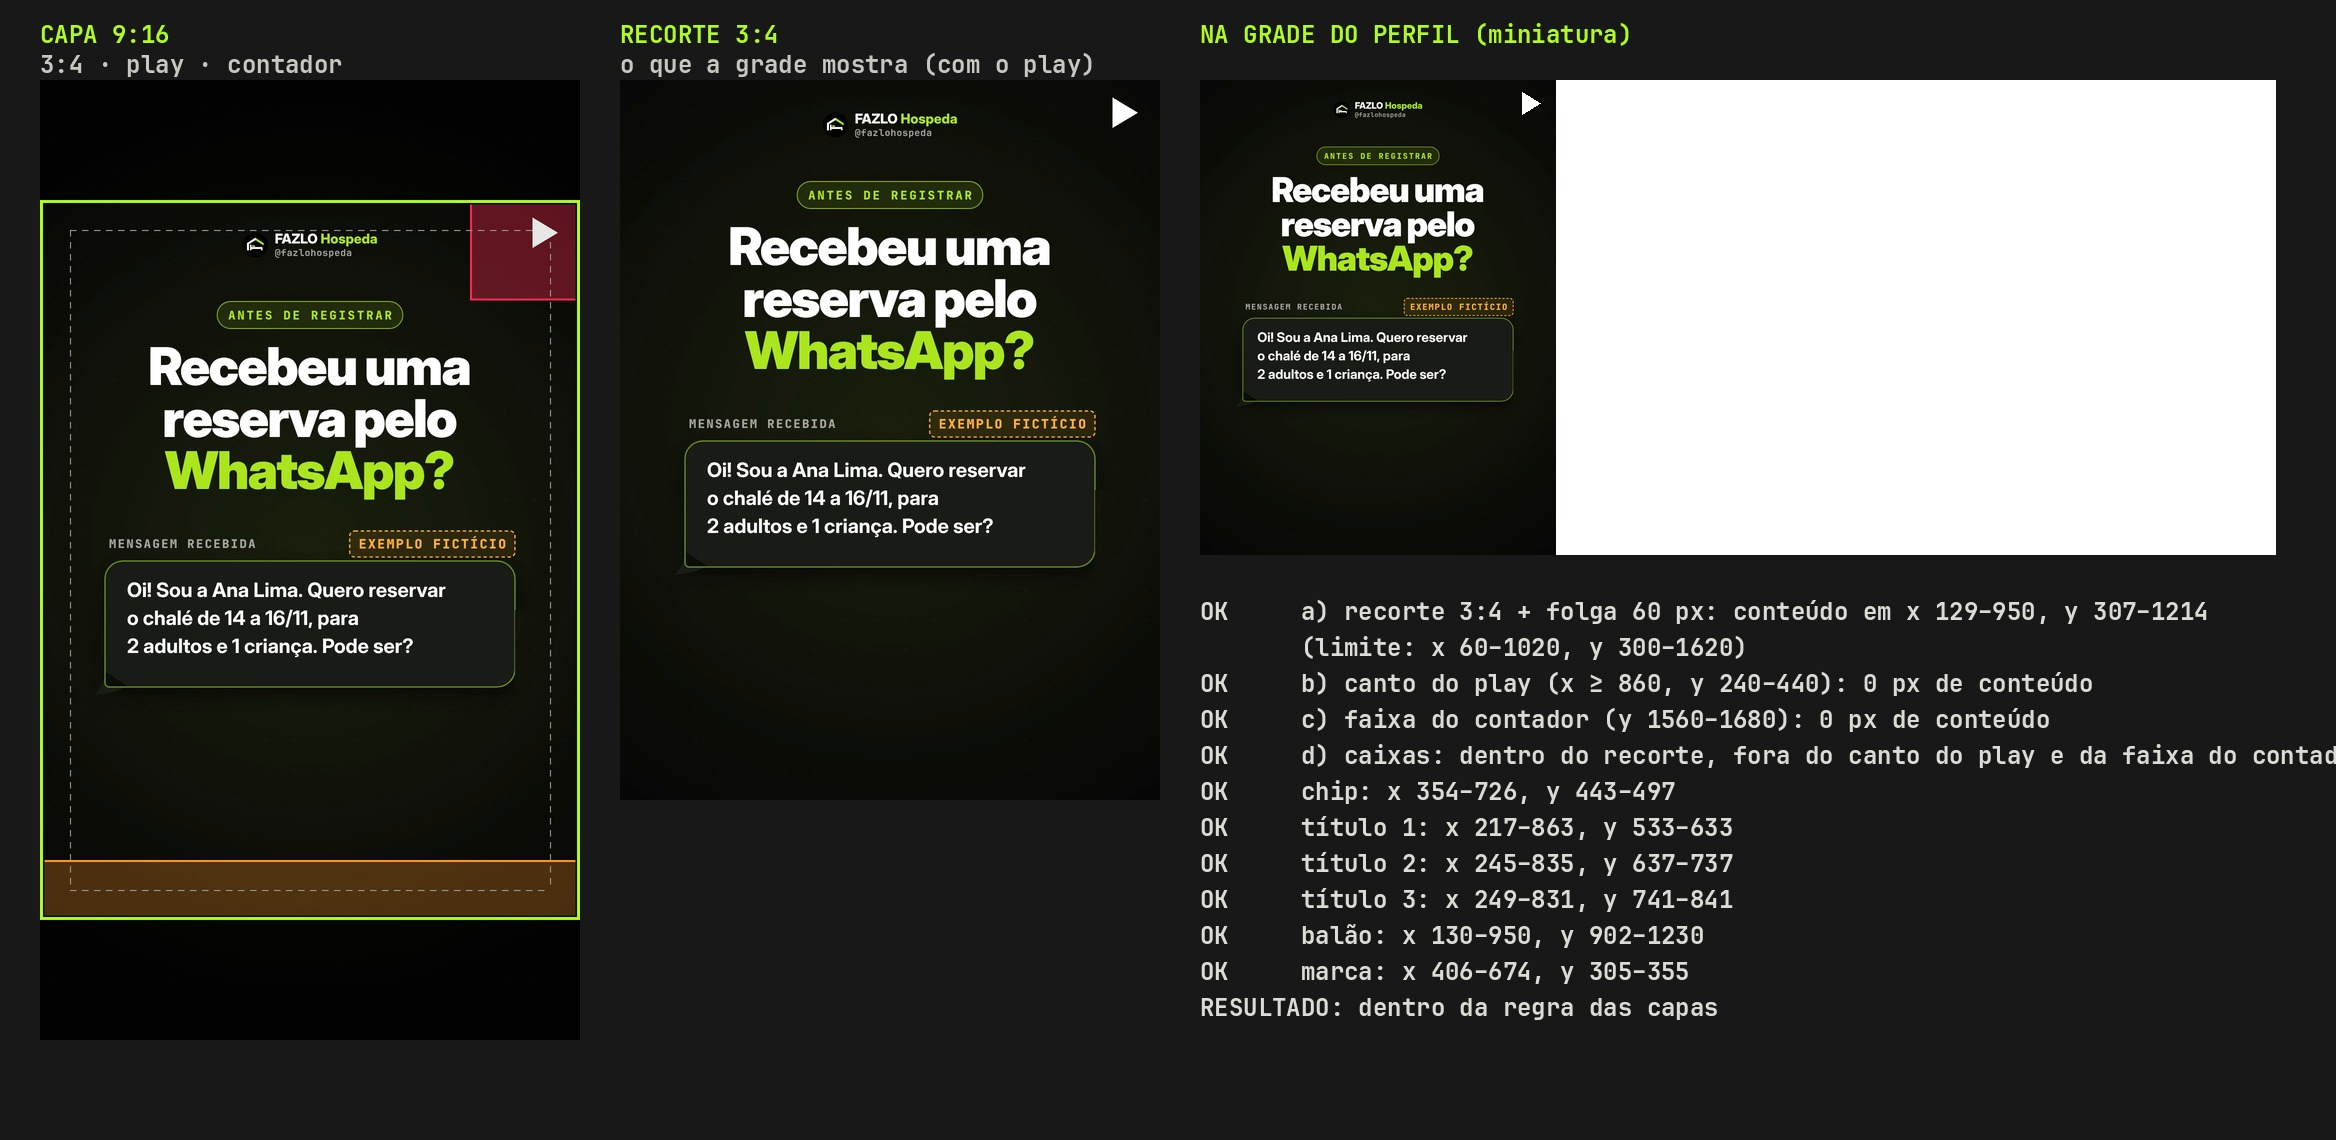
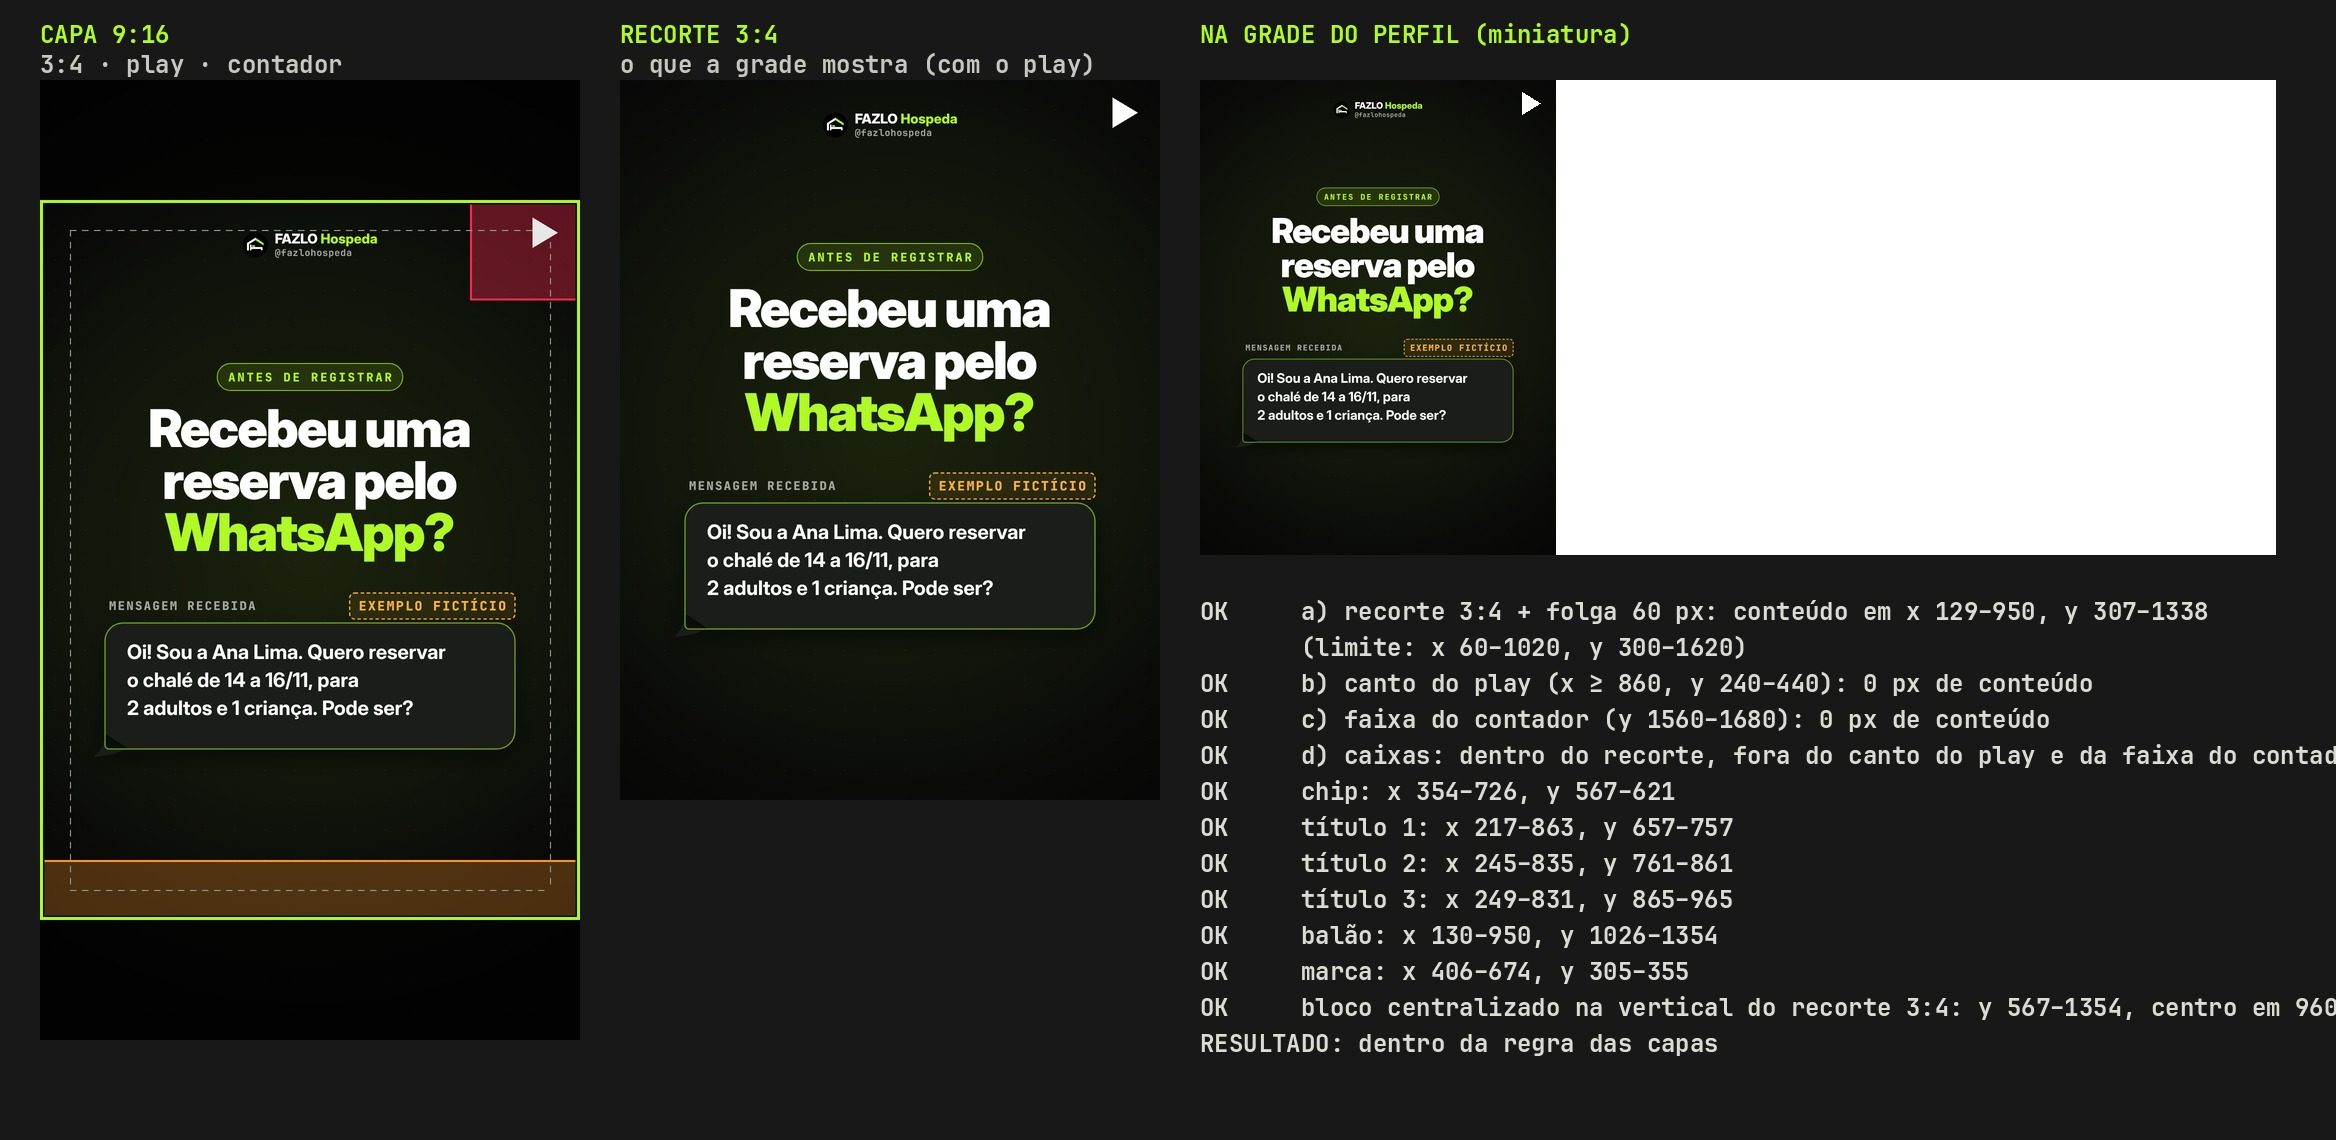
Capas da grade centralizadas (bloco em y = 960) para saldo-checkout, reserva-whatsapp, tudo-num-lugar e institucional
Capa à parte em cada Reel (o vídeo não muda): o mesmo quadro 0 com a logo no
lugar e o bloco principal deslocado para o centro do recorte 3:4, exportando
_bloco; capa nova do institucional para o Reel (a dor do roteiro, sem tela).
tools/capa_grade.cjs gera a capa; revisao_capa.py confere; previa_linha.py
aceita a pasta de uma capa avulsa; linha da grade em reels/grade/.

Claude-Session: https://claude.ai/code/session_0128vGSavxvNhZe87z6nCNi2

diff --git a/reels/institucional-hospeda/src/anim.js b/reels/institucional-hospeda/src/anim.js
@@ -558,6 +558,32 @@
     } else fimLogo(c, t);
     avisoPrevia(c);
   }
+  // ---------------------------------------------------------------- capa para a grade do Reel (à parte: o vídeo e a miniatura do WhatsApp não mudam)
+  // a dor do roteiro: o mesmo título do vídeo ("Caderno, papel / e um caixa que / não bate?", a chave em limão) e os três
+  // elementos da cena 1 (caderno, papel, caixa) no estado final; a logo pequena no alto; sem tela do sistema.
+  // O bloco (título + elementos) fica centralizado na vertical do recorte 3:4 (y = 960).
+  function desenhaCapa(c, dy) {
+    c.setTransform(1, 0, 0, 1, 0, 0); c.globalAlpha = 1; c.shadowColor = 'transparent';
+    fundo(c, 0); marca(c);
+    c.save(); c.translate(0, dy);
+    const S = 104, ls = -0.03 * S;
+    txt(c, 'Caderno, papel', 90, 480, { size: S, weight: 900, ls, box: 'título 1' });
+    txt(c, 'e um caixa que', 90, 584, { size: S, weight: 900, ls, box: 'título 2' });
+    txt(c, 'não bate?', 90, 688, { size: S, weight: 900, ls, color: C.lime, box: 'título 3' });
+    const tf = 100;                                            // o estado final das animações da cena 1
+    c.save(); c.translate(225, 930); c.scale(0.78, 0.78); caderno(c, tf, 0); c.restore(); BOX('caderno', 120, 800, 330, 1050);
+    c.save(); c.translate(510, 915); c.scale(0.78, 0.78); papel(c, tf, 0); c.restore(); BOX('papel', 415, 805, 605, 1025);
+    c.save(); c.translate(800, 925); c.scale(0.72, 0.72); caixaRuim(c, tf, 0, 0); c.restore(); BOX('caixa', 650, 879, 950, 971);
+    c.restore();
+  }
+  function capaGrade(c) {
+    BOXES = []; desenhaCapa(c, 0);
+    const bl = BOXES.filter((b) => b.nome !== 'marca'), topo = Math.min(...bl.map((b) => b.y0)), base = Math.max(...bl.map((b) => b.y1));
+    const dy = Math.round(960 - (topo + base) / 2);
+    BOXES = []; desenhaCapa(c, dy);
+    const caixas = BOXES.map((b) => (b.nome === 'marca' ? b : { ...b, y0: b.y0 + dy, y1: b.y1 + dy })); BOXES = null;
+    return { caixas, bloco: { topo: topo + dy, base: base + dy, centro: (topo + base) / 2 + dy }, dy };
+  }
   function renderAt(c, t) { frame(c, clamp(t, 0, DUR - 1e-4)); }
   function init(img, linha, telas, imgs, o = {}) {
     LOGO = img; LN = linha; TEL = telas; IMG = imgs; DUR = linha.duracao; PREVIA = !!o.previa;
@@ -566,7 +592,7 @@
   }
   function caixas(c, t) { BOXES = []; frame(c, t); const out = BOXES; BOXES = null; return out; }
   window.REEL = {
-    init, renderAt, caixas, get DURATION() { return DUR; }, CAP,
+    init, renderAt, caixas, capaGrade, get DURATION() { return DUR; }, CAP,
     legenda: () => PAGES.map((q) => ({ t0: q.t0, t1: q.t1, linhas: q.rows.map(([a, b]) => q.words.slice(a, b).map((x) => x.w).join(' ')),
       palavras: Array.from({ length: q.b - q.a }, (_, i) => ({ w: q.words[q.a + i].w, t0: q.words[q.a + i].t0, chave: !!q.words[q.a + i].chave })) })),
     plano: () => ({ cenas: CENAS.map((s) => ({ id: s.id, t0: s.t0, t1: s.t1, chip: s.chip })),

diff --git a/reels/marca/tudo-num-lugar/src/anim.js b/reels/marca/tudo-num-lugar/src/anim.js
@@ -614,18 +614,30 @@
     legenda(c);
     avisoPrevia(c);
   }
-  function capa(c) {                                          // a capa: o gancho montado, a logo pequena e "Tudo num lugar só."
+  function capa(c, dy = 0) {                                  // a capa: o gancho montado, a logo pequena e "Tudo num lugar só." (dy: o bloco desce)
     t = 0; c.setTransform(1, 0, 0, 1, 0, 0); c.globalAlpha = 1; fundo(c, 0);
     const d = 50, nome = tw('FAZLO Hospeda', DISPLAY, 28, 800), x0 = 540 - (d + 14 + nome) / 2, cy = 330;
     c.drawImage(LOGO, x0, cy - d / 2, d, d);
     const w1 = txt(c, 'FAZLO', x0 + d + 14, cy + 10, { size: 28, weight: 800 });
     txt(c, 'Hospeda', x0 + d + 14 + w1 + 6, cy + 10, { size: 28, weight: 800, color: C.lime });
     BOX('marca', x0, cy - d / 2, x0 + d + 14 + nome, cy + d / 2);
-    c.save(); c.translate(0, -40); gancho(c, T.s.gancho, true); c.restore();
+    c.save(); c.translate(0, dy - 40); gancho(c, T.s.gancho, true); c.restore();
     const s = 'Tudo num lugar só.', w = tw(s, DISPLAY, 66, 900, -1.4) + 84;
+    c.save(); c.translate(0, dy);
     rr(c, 92, 1300, w, 118, 59); c.fillStyle = C.lime; c.fill();
     txt(c, s, 92 + 42, 1382, { size: 66, weight: 900, color: C.ink, ls: -1.4 });
+    c.restore();
     BOX('chamada da capa', 92, 1300, 92 + w, 1418);
+  }
+  // a capa para a grade: o mesmo desenho, com o bloco (gancho + "Tudo num lugar só.") no centro do recorte 3:4 (y = 960)
+  function capaGrade(c) {
+    BOXES = []; capa(c, 0);
+    const desl = (b) => (b.nome.startsWith('fala ') ? { ...b, y0: b.y0 - 40, y1: b.y1 - 40 } : b);   // o gancho é desenhado 40 px acima
+    const bl = BOXES.filter((b) => b.nome !== 'marca').map(desl), topo = Math.min(...bl.map((b) => b.y0)), base = Math.max(...bl.map((b) => b.y1));
+    const dy = Math.round(960 - (topo + base) / 2);
+    BOXES = []; capa(c, dy);
+    const caixas = BOXES.map((b) => (b.nome === 'marca' ? b : (({ y0, y1, ...r }) => ({ ...r, y0: y0 + dy, y1: y1 + dy }))(desl(b)))); BOXES = null;
+    return { caixas, bloco: { topo: topo + dy, base: base + dy, centro: (topo + base) / 2 + dy }, dy };
   }
 
   // ---------------------------------------------------------------- o que o QA confere (a partir das próprias poses)
@@ -683,6 +695,7 @@
   window.REEL = {
     init, renderAt, caixas, get DURATION() { return DUR; }, CAP,
     capa: (c) => { BOXES = []; capa(c); const out = BOXES; BOXES = null; return out; },
+    capaGrade,
     legenda: () => PAGES.map((q) => ({ frase: q.frase, t0: q.t0, t1: q.t1, linhas: q.rows.map(([a, b]) => q.words.slice(a, b).map((x) => x.w).join(' ')),
       palavras: Array.from({ length: q.b - q.a }, (_, i) => ({ w: q.words[q.a + i].w, t0: q.words[q.a + i].t0, chave: !!q.words[q.a + i].chave })) })),
     plano: () => ({ cenas: CENAS.map((s) => ({ id: s.id, frase: s.frase, t0: +s.t0.toFixed(3), t1: +s.t1.toFixed(3), legenda: s.legenda })),

diff --git a/reels/educativo/reserva-whatsapp/src/anim.js b/reels/educativo/reserva-whatsapp/src/anim.js
@@ -388,6 +388,22 @@
     c.restore();
     avisoPrevia(c);
   }
+  // ---------------------------------------------------------------- capa para a grade (à parte: o vídeo não muda)
+  // o mesmo quadro 0, com a logo pequena no lugar e o bloco principal deslocado para o centro do recorte 3:4 (y = 960)
+  function desenhaCapa(c, dy) {
+    c.setTransform(1, 0, 0, 1, 0, 0); c.globalAlpha = 1; c.shadowColor = 'transparent';
+    fundo(c, 0);
+    c.save(); c.translate(0, dy); gancho(c, 0); balao(c, 0); c.restore();
+    marca(c);
+  }
+  function capaGrade(c) {
+    BOXES = []; desenhaCapa(c, 0);
+    const bl = BOXES.filter((b) => b.nome !== 'marca'), topo = Math.min(...bl.map((b) => b.y0)), base = Math.max(...bl.map((b) => b.y1));
+    const dy = Math.round(960 - (topo + base) / 2);
+    BOXES = []; desenhaCapa(c, dy);
+    const caixas = BOXES.map((b) => (b.nome === 'marca' ? b : { ...b, y0: b.y0 + dy, y1: b.y1 + dy })); BOXES = null;
+    return { caixas, bloco: { topo: topo + dy, base: base + dy, centro: (topo + base) / 2 + dy }, dy };
+  }
   function renderAt(c, t) { frame(c, clamp(t, 0, DUR - 1e-4)); }
   function init(img, linha, o = {}) {
     LOGO = img; LN = linha; DUR = linha.duracao; PREVIA = !!o.previa;
@@ -396,7 +412,7 @@
   }
   function caixas(c, t) { BOXES = []; frame(c, t); const out = BOXES; BOXES = null; return out; }
   window.REEL = {
-    init, renderAt, caixas, get DURATION() { return DUR; }, CAP,
+    init, renderAt, caixas, capaGrade, get DURATION() { return DUR; }, CAP,
     legenda: () => PAGES.map((q) => ({ t0: q.t0, t1: q.t1, linhas: q.rows.map(([a, b]) => q.words.slice(a, b).map((x) => x.w).join(' ')),
       palavras: Array.from({ length: q.b - q.a }, (_, i) => ({ w: q.words[q.a + i].w, t0: q.words[q.a + i].t0, chave: !!q.words[q.a + i].chave })) })),
     tempos: () => T,

diff --git a/reels/educativo/saldo-checkout/src/anim.js b/reels/educativo/saldo-checkout/src/anim.js
@@ -430,6 +430,22 @@
     c.restore();
     avisoPrevia(c);
   }
+  // ---------------------------------------------------------------- capa para a grade (à parte: o vídeo não muda)
+  // o mesmo quadro 0, com a logo pequena no lugar e o bloco principal deslocado para o centro do recorte 3:4 (y = 960)
+  function desenhaCapa(c, dy) {
+    c.setTransform(1, 0, 0, 1, 0, 0); c.globalAlpha = 1; c.shadowColor = 'transparent';
+    fundo(c, 0);
+    c.save(); c.translate(0, dy); gancho(c, 0); c.restore();
+    marca(c);
+  }
+  function capaGrade(c) {
+    BOXES = []; desenhaCapa(c, 0);
+    const bl = BOXES.filter((b) => b.nome !== 'marca'), topo = Math.min(...bl.map((b) => b.y0)), base = Math.max(...bl.map((b) => b.y1));
+    const dy = Math.round(960 - (topo + base) / 2);
+    BOXES = []; desenhaCapa(c, dy);
+    const caixas = BOXES.map((b) => (b.nome === 'marca' ? b : { ...b, y0: b.y0 + dy, y1: b.y1 + dy })); BOXES = null;
+    return { caixas, bloco: { topo: topo + dy, base: base + dy, centro: (topo + base) / 2 + dy }, dy };
+  }
   function renderAt(c, t) { frame(c, clamp(t, 0, DUR - 1e-4)); }
   function init(img, linha, o = {}) {
     LOGO = img; LN = linha; DUR = linha.duracao; PREVIA = !!o.previa;
@@ -438,7 +454,7 @@
   }
   function caixas(c, t) { BOXES = []; frame(c, t); const out = BOXES; BOXES = null; return out; }
   window.SALDO = {
-    init, renderAt, caixas, get DURATION() { return DUR; }, CAP,
+    init, renderAt, caixas, capaGrade, get DURATION() { return DUR; }, CAP,
     legenda: () => PAGES.map((q) => ({ t0: q.t0, t1: q.t1, linhas: q.rows.map(([a, b]) => q.words.slice(a, b).map((x) => x.w).join(' ')) })),
     tempos: () => T,
   };

diff --git a/reels/marca/tudo-num-lugar/src/index.html b/reels/marca/tudo-num-lugar/src/index.html
@@ -36,6 +36,7 @@
   })();
   window.frameAt = (t) => { REEL.renderAt(ctx, t); return ctx.canvas.toDataURL('image/png'); };
   window.caixas = (t) => REEL.caixas(ctx, t);
+  window.capaGrade = () => { const r = REEL.capaGrade(ctx); return { ...r, png: ctx.canvas.toDataURL('image/png') }; };
   window.capa = () => { const caixas = REEL.capa(ctx); return { png: ctx.canvas.toDataURL('image/png'), caixas }; };
 </script>
 </body>

diff --git a/reels/educativo/saldo-checkout/src/index.html b/reels/educativo/saldo-checkout/src/index.html
@@ -32,6 +32,7 @@
   })();
   window.frameAt = (t) => { SALDO.renderAt(ctx, t); return ctx.canvas.toDataURL('image/png'); };
   window.caixas = (t) => SALDO.caixas(ctx, t);
+  window.capaGrade = () => { const r = SALDO.capaGrade(ctx); return { ...r, png: ctx.canvas.toDataURL('image/png') }; };
 </script>
 </body>
 </html>

diff --git a/reels/educativo/reserva-whatsapp/src/index.html b/reels/educativo/reserva-whatsapp/src/index.html
@@ -32,6 +32,7 @@
   })();
   window.frameAt = (t) => { REEL.renderAt(ctx, t); return ctx.canvas.toDataURL('image/png'); };
   window.caixas = (t) => REEL.caixas(ctx, t);
+  window.capaGrade = () => { const r = REEL.capaGrade(ctx); return { ...r, png: ctx.canvas.toDataURL('image/png') }; };
 </script>
 </body>
 </html>

diff --git a/reels/institucional-hospeda/src/index.html b/reels/institucional-hospeda/src/index.html
@@ -34,6 +34,7 @@
   })();
   window.frameAt = (t) => { REEL.renderAt(ctx, t); return ctx.canvas.toDataURL('image/png'); };
   window.caixas = (t) => REEL.caixas(ctx, t);
+  window.capaGrade = () => { const r = REEL.capaGrade(ctx); return { ...r, png: ctx.canvas.toDataURL('image/png') }; };
 </script>
 </body>
 </html>

diff --git a/reels/tools/previa_linha.py b/reels/tools/previa_linha.py
@@ -5,7 +5,8 @@ Prévia de uma linha da grade do perfil: as capas lado a lado, como o Instagram 
     python3 reels/tools/previa_linha.py reels/reel-06 reels/reel-05 reels/reel-02 --saida reels/grade/linha-2.jpg
 
 Lê <reel>/output/capa.png de cada Reel (na ordem da grade, da esquerda para a direita) e o resultado da
-revisão em <reel>/output/revisao/capa.txt (gerado por revisao_capa.py). Mostra:
+revisão em <reel>/output/revisao/capa.txt (gerado por revisao_capa.py); aceita também a pasta de uma capa avulsa
+com capa.png e revisao/capa.txt (ex.: <reel>/output/grade, de tools/capa_grade.cjs). Mostra:
   - em cima, cada capa 9:16 com o recorte 3:4 (verde), o canto do ícone de play (vermelho), a faixa do
     contador de visualizações (laranja) e a folga de 60 px (tracejado);
   - embaixo, a linha da grade como o perfil mostra: o recorte 3:4 de cada capa, com o ícone de play e um
@@ -70,9 +71,12 @@ def tile(cover, w, h, views):
 covers, names, results = [], [], []
 for r in a.reels:
     R = os.path.abspath(r)
-    covers.append(Image.open(os.path.join(R, 'output', 'capa.png')).convert('RGB'))
-    names.append(os.path.basename(R).replace('reel-', 'REEL '))
-    txt = os.path.join(R, 'output', 'revisao', 'capa.txt')
+    # a pasta do Reel (lê output/capa.png) ou a pasta de uma capa avulsa com capa.png (ex.: <reel>/output/grade)
+    base = R if os.path.exists(os.path.join(R, 'capa.png')) else os.path.join(R, 'output')
+    covers.append(Image.open(os.path.join(base, 'capa.png')).convert('RGB'))
+    nome = R if base == os.path.join(R, 'output') else os.path.dirname(os.path.dirname(R))
+    names.append(os.path.basename(nome).replace('reel-', 'REEL '))
+    txt = os.path.join(base, 'revisao', 'capa.txt')
     res = [ln for ln in open(txt).read().splitlines() if ln.startswith('RESULTADO')] if os.path.exists(txt) else []
     results.append(res[0].replace('RESULTADO: ', '') if res else 'sem revisão')
 
